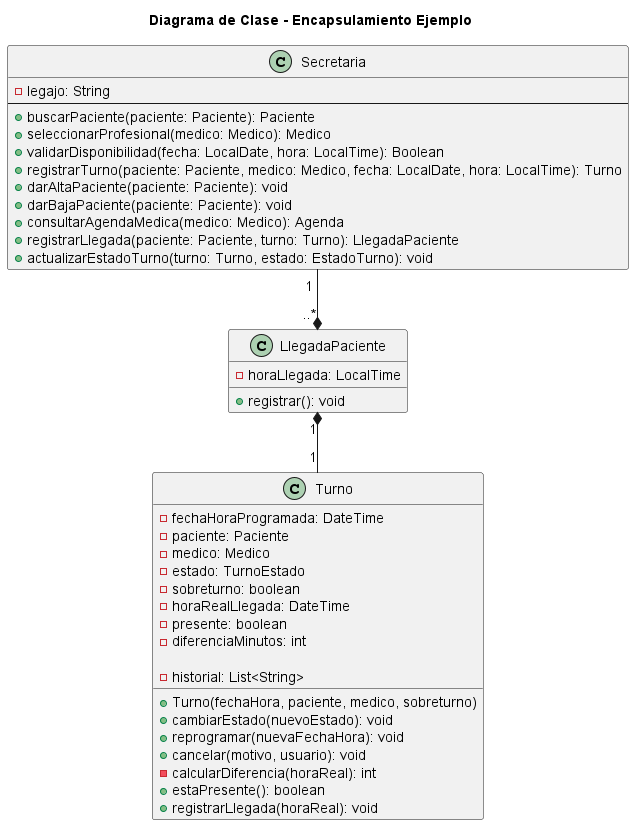
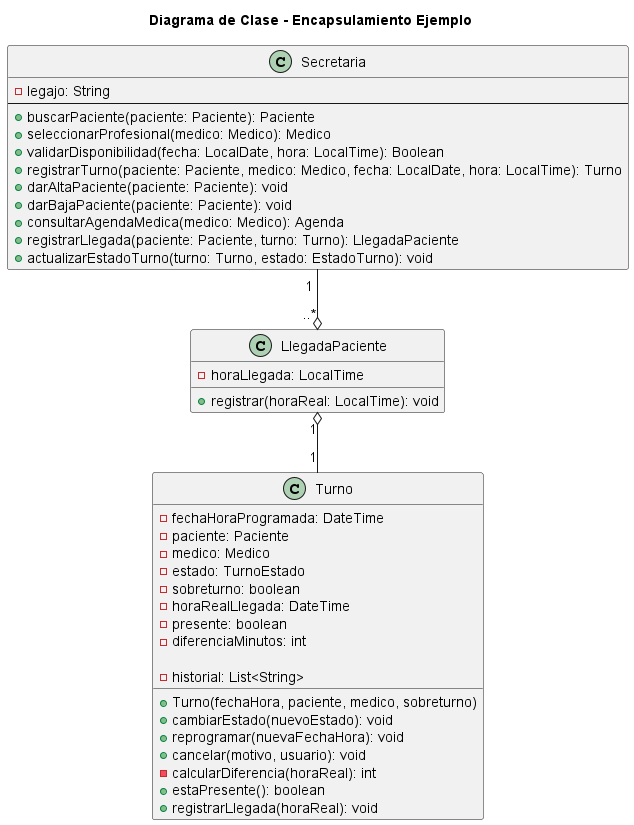
fix: corregidos id's, diagramas y los links a estos

Changed region(s): [[0.2997, 0.3939, 0.6893, 0.5152]]

diff --git a/anexos/fundamentos-doo-mesa-645003-matricula-157550/doo-encapsulamiento.md b/anexos/fundamentos-doo-mesa-645003-matricula-157550/doo-encapsulamiento.md
@@ -2,7 +2,7 @@
 
 El encapsulamiento es el principio de ocultar los detalles internos de una clase y exponer solo una interfaz controlada para interactuar con ella. En el diseño orientado a objetos, esto protege el estado del objeto, evita modificaciones directas indebidas y mantiene la invariancia de los datos.
 
-En el proyecto del sistema de turnos médicos, el encapsulamiento ayuda a garantizar que las entidades manejen sus propios datos y reglas de negocio internamente. Por ejemplo, la clase `Secretaria` no modifica directamente los atributos de la clase `Turno`; en su lugar, utiliza la clase `LlegadaPaciente` como intermediaria para registrar la llegada y actualizar el estado del turno.
+En el proyecto del sistema de turnos médicos, el encapsulamiento ayuda a garantizar que las entidades manejen sus propios datos y reglas de negocio internamente.
 
 Relación con SOLID y patrones de diseño:
 - SRP (Single Responsibility Principle): al contener los datos y el comportamiento relacionados en la misma clase, cada entidad asume una única responsabilidad.
@@ -12,7 +12,7 @@ Relación con SOLID y patrones de diseño:
 
 ## Ejemplo en el proyecto
 
-![Encapsulamiento en el proyecto](../../diagramas/01-diagrama-clases/capturas-pilares/poo-encapsulamiento-ejemplo-2.png)
+![Encapsulamiento en el proyecto](./doo-encapsulamiento.png)
 
 El diagrama muestra la clase `Turno` con atributos internos como `horaRealLlegada`, `presente` y `diferenciaMinutos`. Estos atributos no deben ser modificados directamente por otras clases. En el caso de registrar una llegada, la `Secretaria` crea o utiliza un objeto `LlegadaPaciente` y llama a su método `registrar()`.
 

diff --git a/anexos/fundamentos-doo-mesa-645003-matricula-157550/doo-abstraccion.md b/anexos/fundamentos-doo-mesa-645003-matricula-157550/doo-abstraccion.md
@@ -12,7 +12,7 @@ Relación con SOLID y patrones de diseño:
 
 ## Ejemplo en el proyecto
 
-![Abstracción en el proyecto](../../diagramas/01-diagrama-clases/capturas-pilares/poo-abstraccion-ejemplo-1.png)
+![Abstracción en el proyecto](./doo-abstraccion.png)
 
 En este diagrama se observa la clase abstracta `UsuarioDelSistema` que agrupa atributos y métodos comunes a `Paciente`, `Medico` y `Secretaria`. Estas subclases concretas extienden la abstracción básica con comportamientos específicos del rol, mientras que el resto del sistema puede trabajar con el tipo general `UsuarioDelSistema`.
 
@@ -65,4 +65,3 @@ public class Paciente extends UsuarioDelSistema {
 Justificación técnica:
 - El ejemplo de `UsuarioDelSistema` muestra una abstracción explícita: define la estructura y el comportamiento común a todos los usuarios sin proporcionar una implementación completa para `actualizarDatos()`.
 - `Paciente` hereda esa abstracción y ofrece una implementación concreta, lo que permite que el sistema manipule distintos tipos de usuario mediante el mismo tipo base.
-- El método `cambiarEstado` de `Turno` abstrae la operación de cambio de estado y encapsula las reglas de negocio de validación dentro de la propia clase.

diff --git a/changelog.md b/changelog.md
@@ -1,6 +1,6 @@
 # Changelog
 
-## [Unreleased - Examen Final] - 2026-07-26
+## [Unreleased]
 
 ### Added
 
